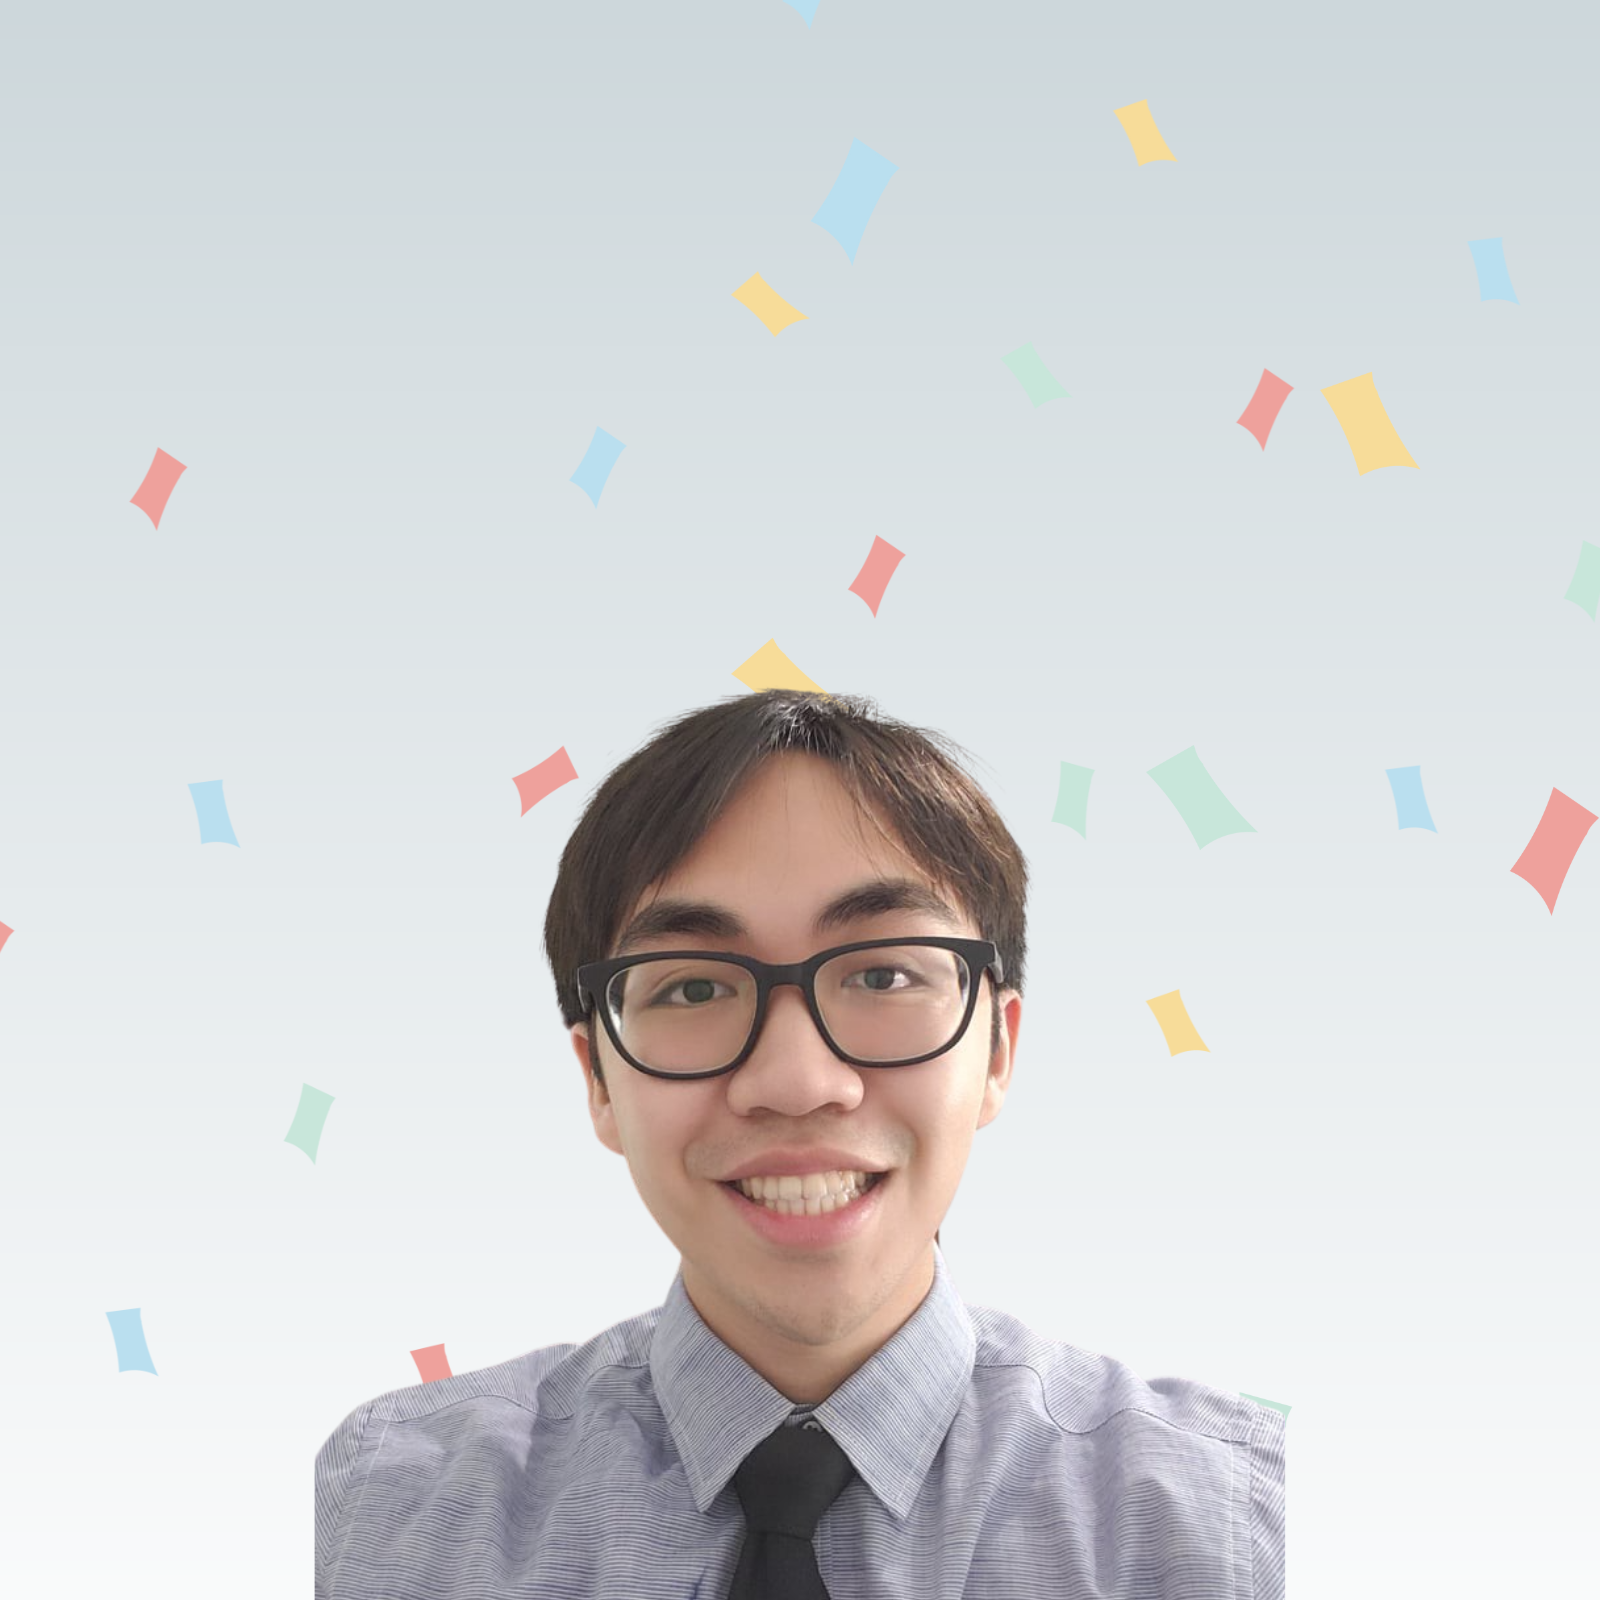
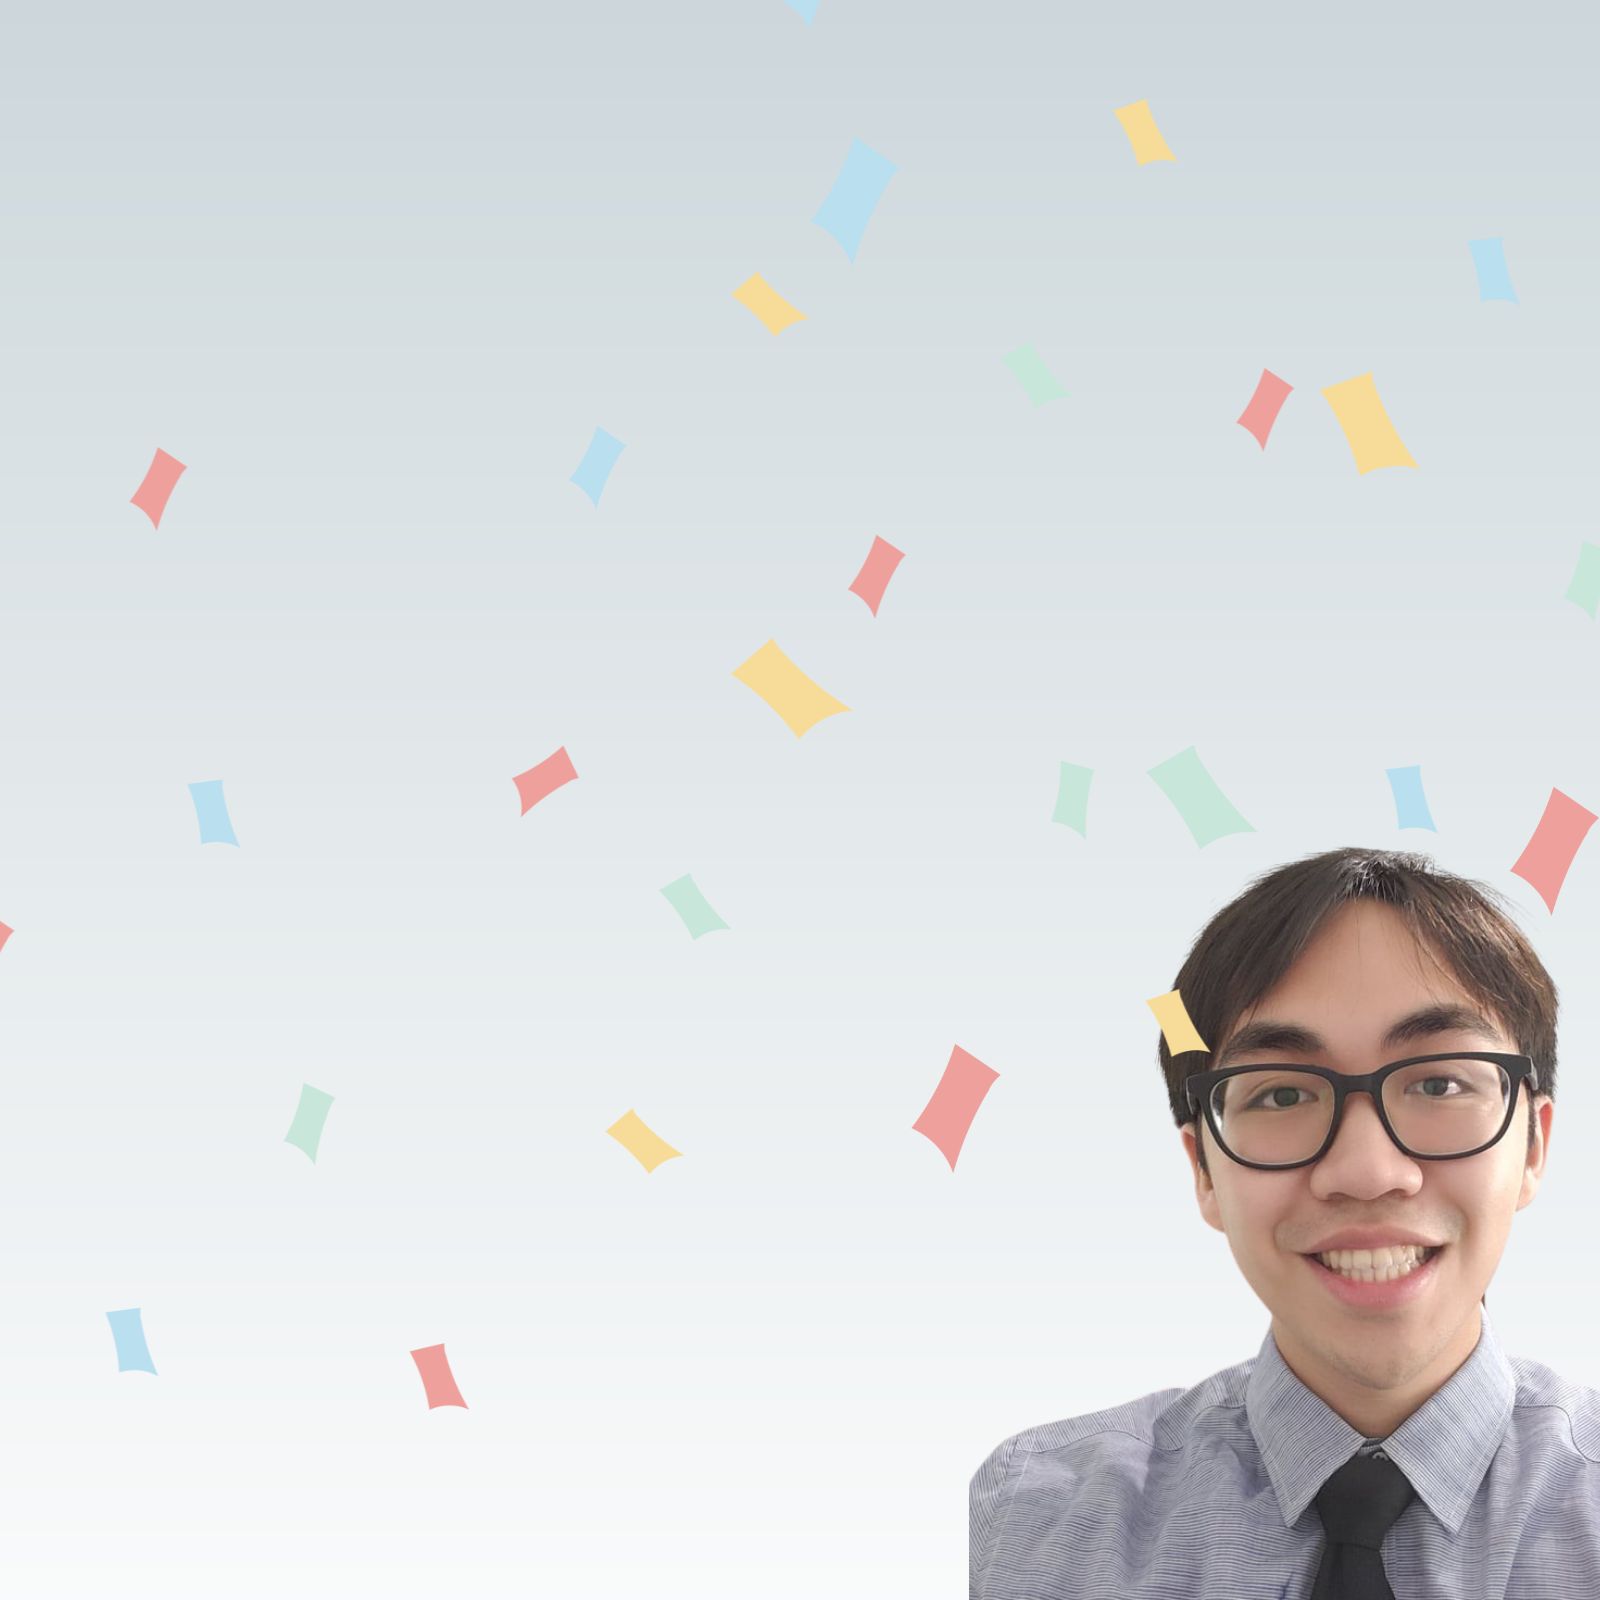
styled hero section and links

Changed region(s): [[0.1875, 0.4062, 1.0, 1.0]]

diff --git a/styles.css b/styles.css
@@ -1,5 +1,4 @@
 header {
-    background-color: lightgray;
     padding: 20px;
   }
   
@@ -14,29 +13,44 @@ header {
   nav li {
     display: inline-block;
     margin-right: 20px;
+    font-family: -apple-system, BlinkMacSystemFont, sans-serif;
+    font-weight:900px;
+    font-size:20px;
   }
   
   nav a {
     color: black;
     text-decoration: none;
+    
   }
   
   nav a:hover {
-    color: white;
+    color: blue;
+    
+  }
+
+  nav a:visited {
+    color: rgb(147, 0, 227);
   }
 
   #hero {
     background-image: url(SamuelSau.png);
+    background-size: contain;
     background-size: cover;
     background-position: center;
     height: 500px;
+    max-width: 600px;
     display: flex;
     align-items: center;
     justify-content: center;
+    margin: 4rem auto;
+    box-shadow: 0 0 16px rgba(0, 0, 0, 0.2);
+    border-radius: 10px;
   }
   
   .hero-content {
     text-align: center;
     color: white;
+
   }
   

diff --git a/index.html b/index.html
@@ -20,7 +20,7 @@
       </header>
       <section id="hero">
         <div class="hero-content">
-          <p>This is a hero section with a background image.</p>
+          <p>Passionate learner for Software</p>
         </div>
       </section>
     
